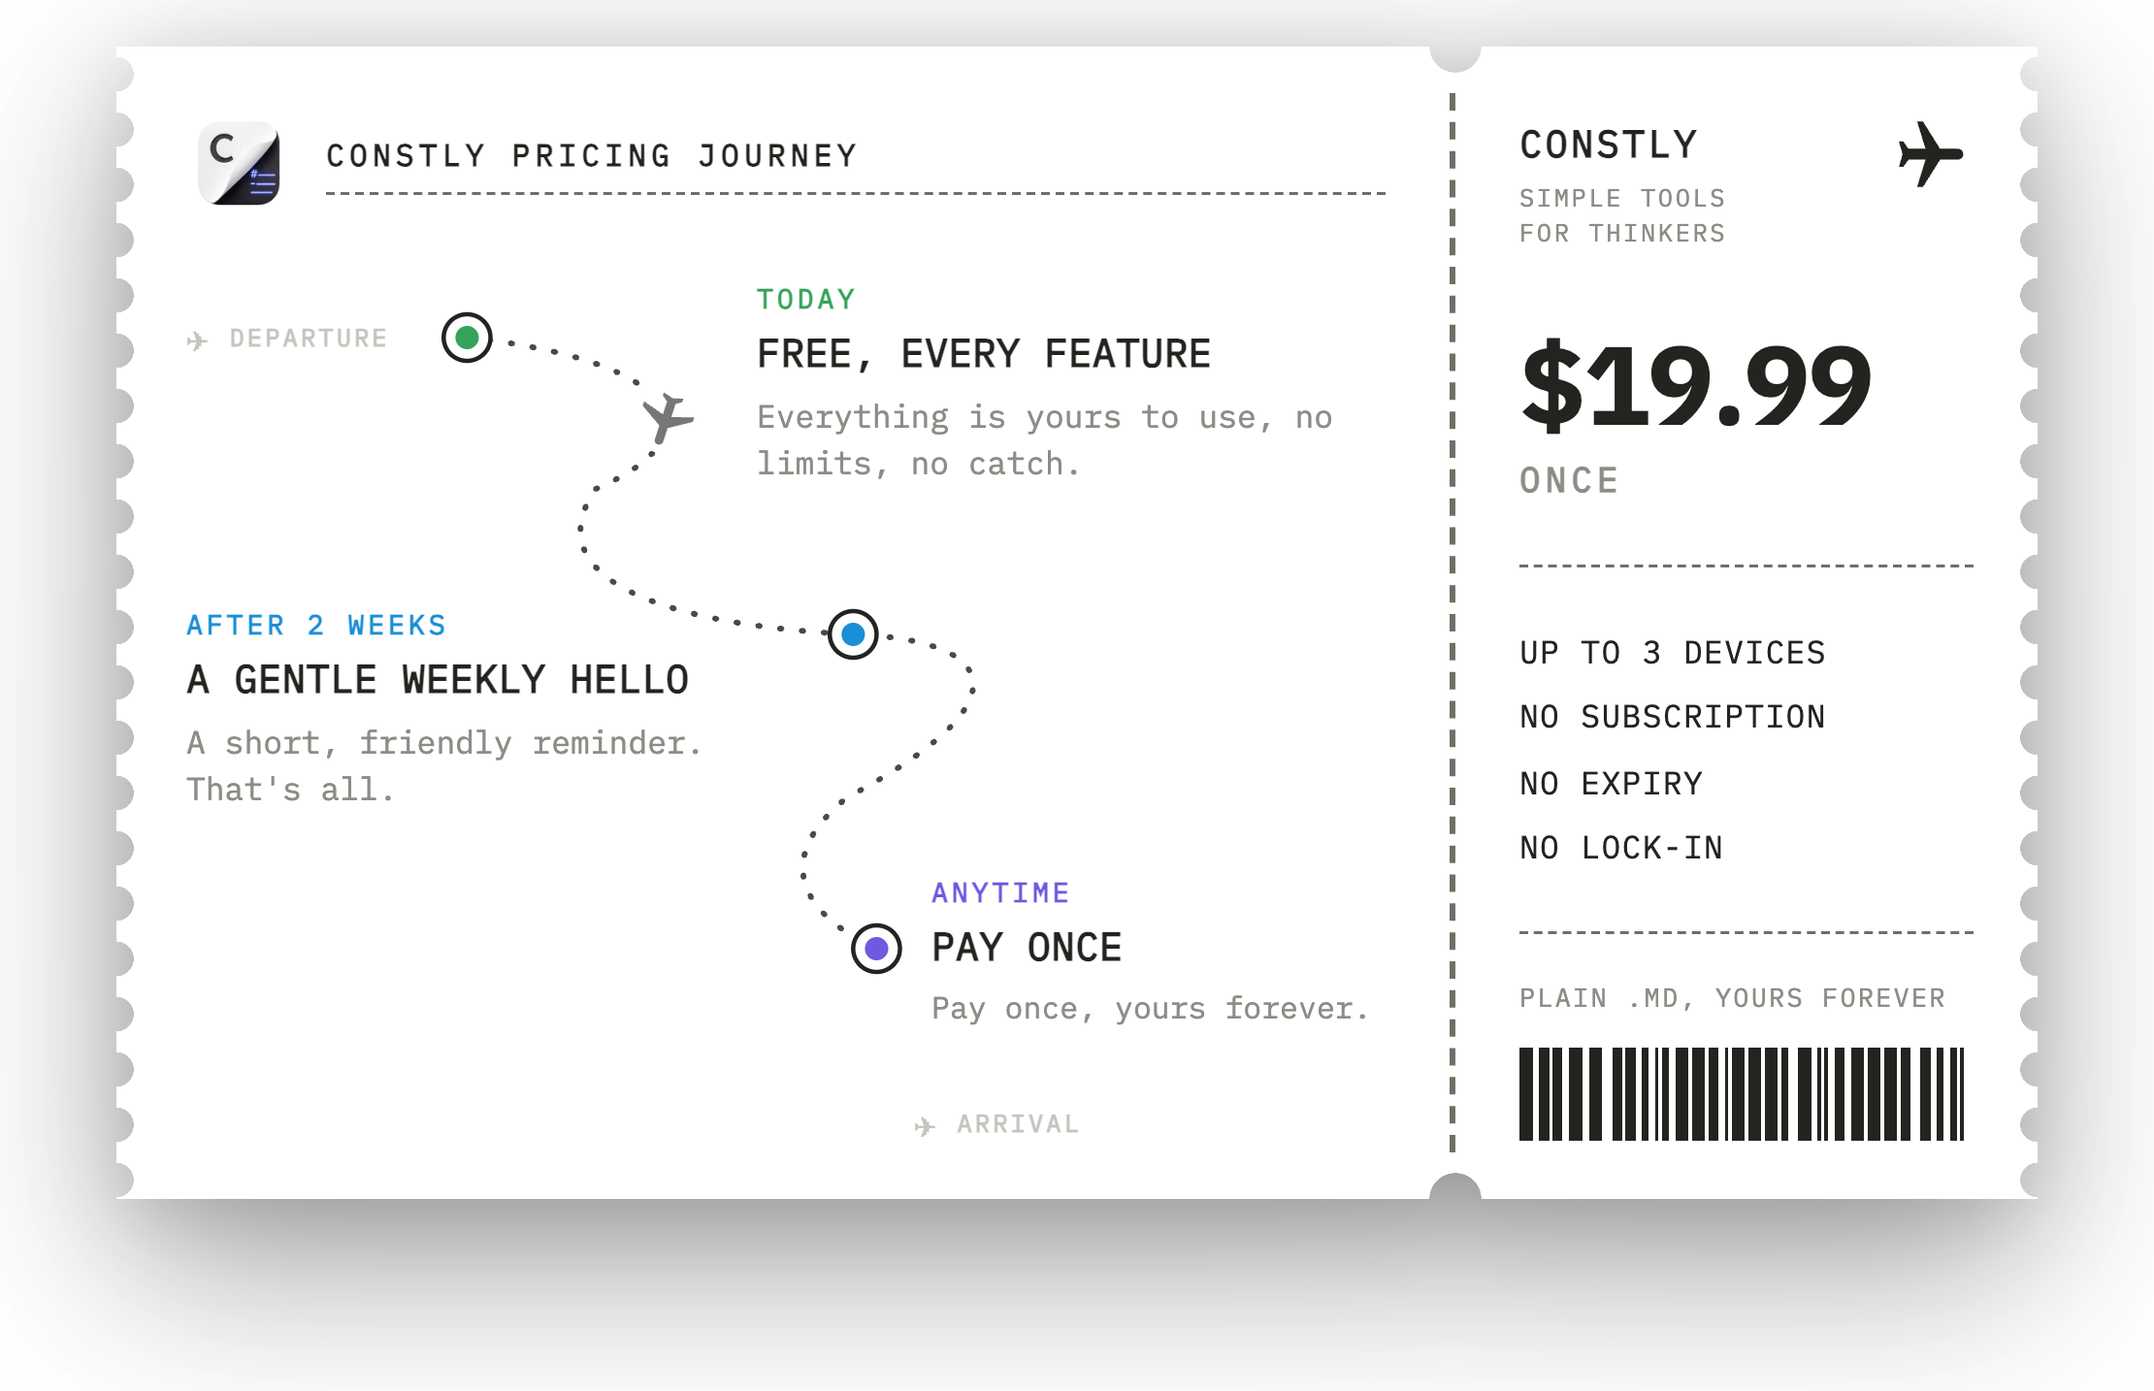
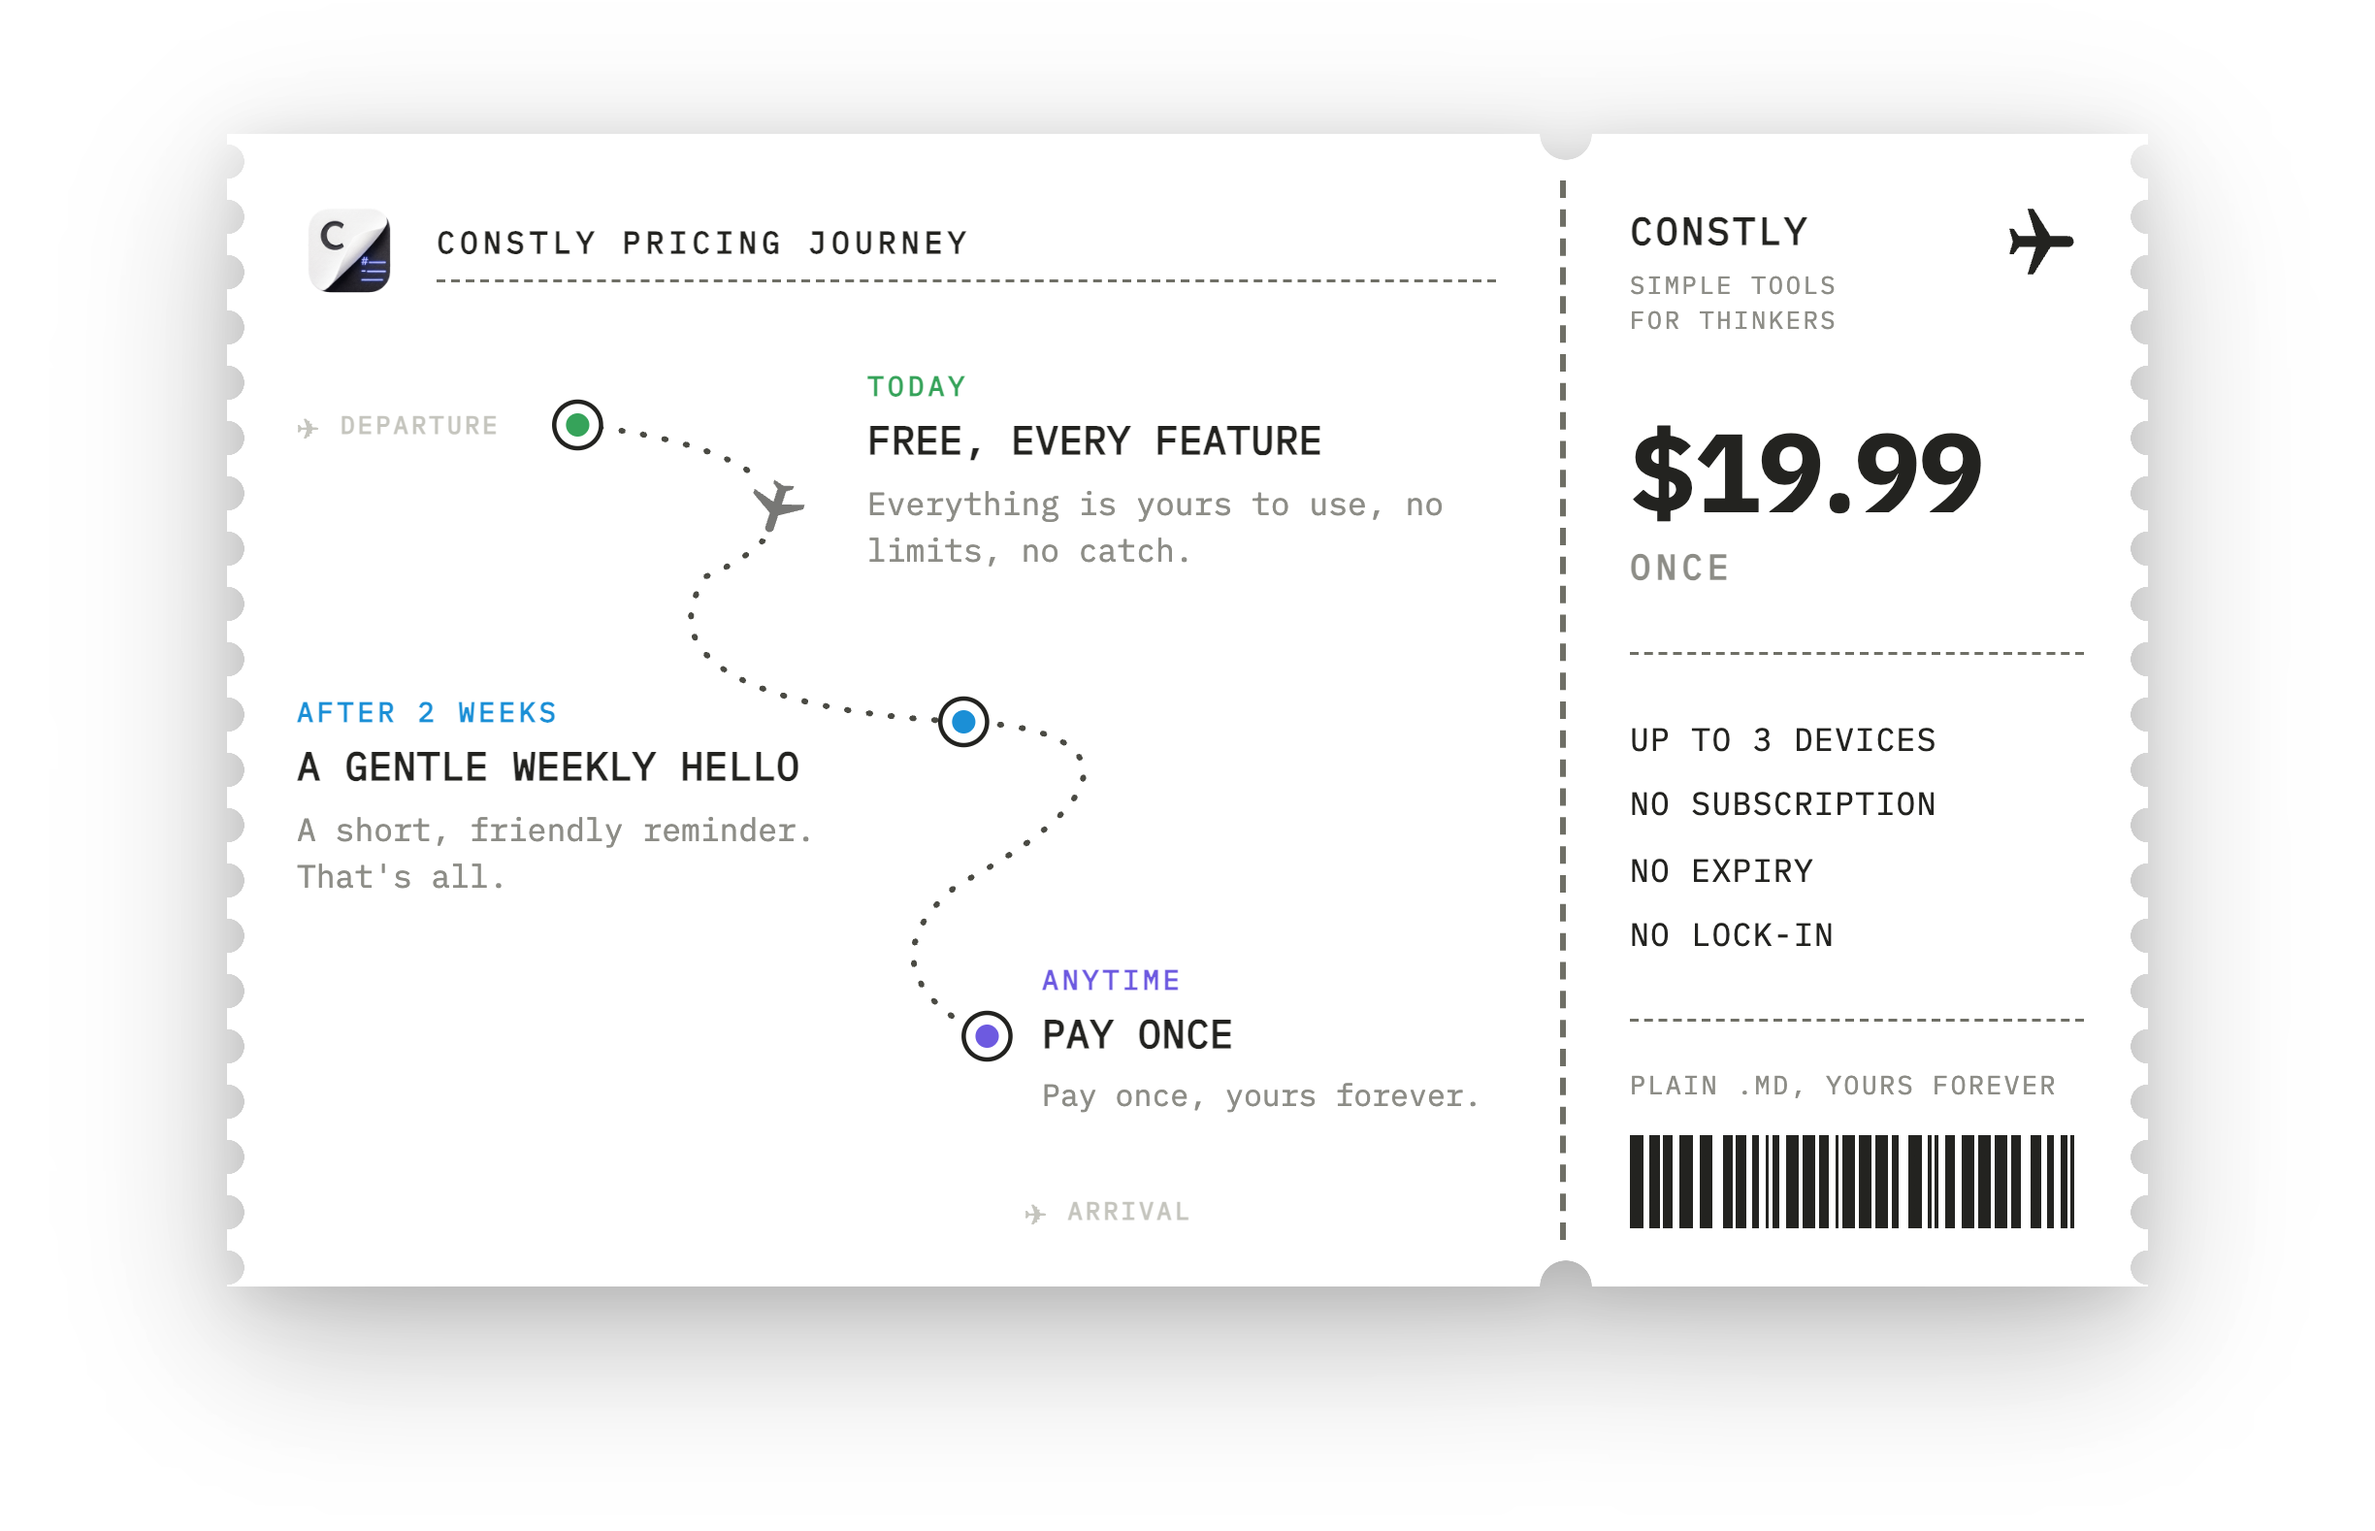
docs(readme): full-width media, full-colour demo, edit beat, tighter ticket shadow
Switch the demo to a full-colour animated WebP so the syntax highlighting reads
the way it does in the app, and extend it to show the click-into-heading edit
(the raw # returning, then rendering again). Widen the demo and the pricing
ticket to full width, and soften the ticket shadow so the image edge no longer
clips it.

diff --git a/README.md b/README.md
@@ -1,5 +1,5 @@
 <p align="center">
-  <img src="assets/demo.gif" width="720" alt="Constly rendering markdown as you type: a heading, bold text, a task list, a quote, and a syntax-highlighted code block resolve in place while the raw marks melt away, and the editor shifts from light to dark.">
+  <img src="assets/demo.webp" width="100%" alt="Constly rendering markdown as you type: a heading, bold text, a task list, a quote, and a syntax-highlighted code block resolve in place while the raw marks melt away; the editor shifts from light to dark; then the heading is clicked and its raw # briefly returns before rendering again.">
 </p>
 
 <h1 align="center">Constly</h1>
@@ -65,7 +65,7 @@ it keeps itself current.
 ## Pricing
 
 <p align="center">
-  <img src="assets/pricing-pass.png" width="620" alt="Constly's pricing drawn as a boarding pass: Today, free with every feature and no catch; after two weeks, a gentle weekly reminder; anytime, pay once and it is yours forever. A one-time fare of $19.99, up to 3 devices, no subscription, no expiry, no lock-in.">
+  <img src="assets/pricing-pass.png" width="100%" alt="Constly's pricing drawn as a boarding pass: Today, free with every feature and no catch; after two weeks, a gentle weekly reminder; anytime, pay once and it is yours forever. A one-time fare of $19.99, up to 3 devices, no subscription, no expiry, no lock-in.">
 </p>
 
 Constly is free to use for as long as you need. Every feature is unlocked, nothing
